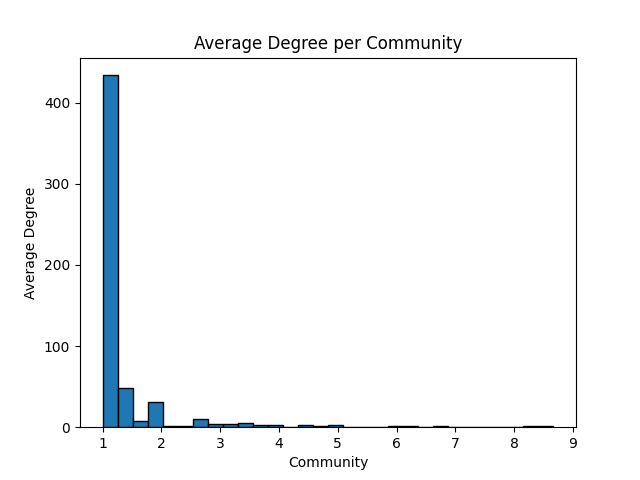
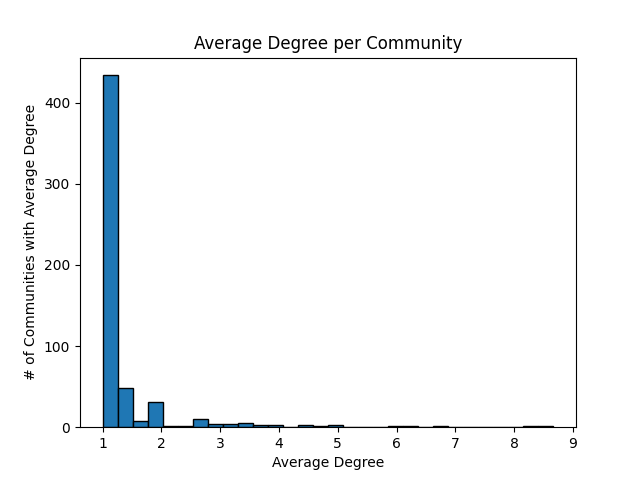
fixed graphs

Changed region(s): [[0.0312, 0.2188, 0.0625, 0.7812], [0.4062, 0.9375, 0.5938, 1.0]]

diff --git a/metrics.py b/metrics.py
@@ -120,8 +120,8 @@ avg_path_lengths = average_path_length_per_community(G, node_community)
 plt.figure()
 plt.hist(list(avg_path_lengths.values()), bins=30, edgecolor='black')
 plt.title('Average Path Length per Community')
-plt.xlabel('Community')
-plt.ylabel('Average Path Length')
+plt.xlabel('Average Path Length')
+plt.ylabel('# of Communities with Average Path Length')
 plt.savefig('histograms/community_average_path_length_histogram.png')
 plt.close()
 
@@ -161,11 +161,11 @@ clustering_coeffs = clustering_coefficient_per_community(G, node_community)
 plt.figure()
 plt.hist(list(clustering_coeffs.values()), bins=30, edgecolor='black')
 plt.title('Clustering Coefficient per Community')
-plt.xlabel('Community')
-plt.ylabel('Clustering Coefficient')
+plt.xlabel('Clustering Coefficient')
+plt.ylabel('# of Communities with Clustering Coefficient')
 plt.savefig('histograms/community_clustering_coefficient_histogram.png')
 plt.close()
-
+'''
 # Get the top and bottom 10 communities by clustering coefficient
 sorted_clustering_coeffs = sorted(clustering_coeffs.items(), key=lambda x: x[1], reverse=True)
 top_100_clustering_coeffs = sorted_clustering_coeffs[:100]
@@ -176,7 +176,7 @@ with open('community_metrics_csvs/clustering_coefficient.csv', mode='w', newline
     writer = csv.writer(f)
     writer.writerow(["Community", "Clustering Coefficient"])
     for comm, coeff in top_100_clustering_coeffs:
-        writer.writerow([comm, coeff])
+        writer.writerow([comm, coeff])'''
 
 
 
@@ -202,11 +202,11 @@ densities = density_per_community(G, node_community)
 plt.figure()
 plt.hist(list(densities.values()), bins=30, edgecolor='black')
 plt.title('Density per Community')
-plt.xlabel('Community')
-plt.ylabel('Density')
+plt.xlabel('Density')
+plt.ylabel('# of Communities with Density')
 plt.savefig('histograms/community_density_histogram.png')
 plt.close()
-
+'''
 # Get the top and bottom 10 communities by density
 sorted_densities = sorted(densities.items(), key=lambda x: x[1], reverse=True)
 top_100_densities = sorted_densities[:100]
@@ -217,7 +217,7 @@ with open('community_metrics_csvs/density.csv', mode='w', newline='') as f:
     writer = csv.writer(f)
     writer.writerow(["Community", "Density"])
     for comm, density in top_100_densities:
-        writer.writerow([comm, density])
+        writer.writerow([comm, density])'''
 
 
 
@@ -243,11 +243,11 @@ avg_degrees = average_degree_per_community(G, node_community)
 plt.figure()
 plt.hist(list(avg_degrees.values()), bins=30, edgecolor='black')
 plt.title('Average Degree per Community')
-plt.xlabel('Community')
-plt.ylabel('Average Degree')
+plt.xlabel('Average Degree')
+plt.ylabel('# of Communities with Average Degree')
 plt.savefig('histograms/community_average_degree_histogram.png')
 plt.close()
-
+'''
 # Get the top and bottom 10 communities by average degree
 sorted_avg_degrees = sorted(avg_degrees.items(), key=lambda x: x[1], reverse=True)
 top_100_avg_degrees = sorted_avg_degrees[:100]
@@ -258,7 +258,7 @@ with open('community_metrics_csvs/average_degree.csv', mode='w', newline='') as 
     writer = csv.writer(f)
     writer.writerow(["Community", "Average Degree"])
     for comm, degree in top_100_avg_degrees:
-        writer.writerow([comm, degree])
+        writer.writerow([comm, degree])'''
 
 
 
@@ -287,11 +287,11 @@ edge_connectivities = edge_connectivity_per_community(G, node_community)
 plt.figure()
 plt.hist(list(edge_connectivities.values()), bins=30, edgecolor='black')
 plt.title('Edge Connectivity per Community')
-plt.xlabel('Community')
-plt.ylabel('Edge Connectivity')
+plt.xlabel('Edge Connectivity')
+plt.ylabel('# of Communities with Edge Connectivity')
 plt.savefig('histograms/community_edge_connectivity_histogram.png')
 plt.close()
-
+'''
 # Get the top and bottom 10 communities by edge connectivity
 sorted_edge_connectivities = sorted(edge_connectivities.items(), key=lambda x: x[1], reverse=True)
 top_100_edge_connectivities = sorted_edge_connectivities[:100]
@@ -302,7 +302,7 @@ with open('community_metrics_csvs/edge_connectivity.csv', mode='w', newline='') 
     writer = csv.writer(f)
     writer.writerow(["Community", "Edge Connectivity"])
     for comm, conn in top_100_edge_connectivities:
-        writer.writerow([comm, conn])
+        writer.writerow([comm, conn])'''
 
 
 
@@ -331,11 +331,11 @@ node_connectivities = node_connectivity_per_community(G, node_community)
 plt.figure()
 plt.hist(list(node_connectivities.values()), bins=30, edgecolor='black')
 plt.title('Node Connectivity per Community')
-plt.xlabel('Community')
-plt.ylabel('Node Connectivity')
+plt.xlabel('Node Connectivity')
+plt.ylabel('# of Communities with Node Connectivity')
 plt.savefig('histograms/node_connectivity_histogram.png')
 plt.close()
-
+'''
 # Get the top and bottom 10 communities by node connectivity
 sorted_node_connectivities = sorted(node_connectivities.items(), key=lambda x: x[1], reverse=True)
 top_100_node_connectivities = sorted_node_connectivities[:100]
@@ -346,5 +346,5 @@ with open('community_metrics_csvs/node_connectivity.csv', mode='w', newline='') 
     writer = csv.writer(f)
     writer.writerow(["Community", "Node Connectivity"])
     for comm, conn in top_100_node_connectivities:
-        writer.writerow([comm, conn])
+        writer.writerow([comm, conn])'''
 
